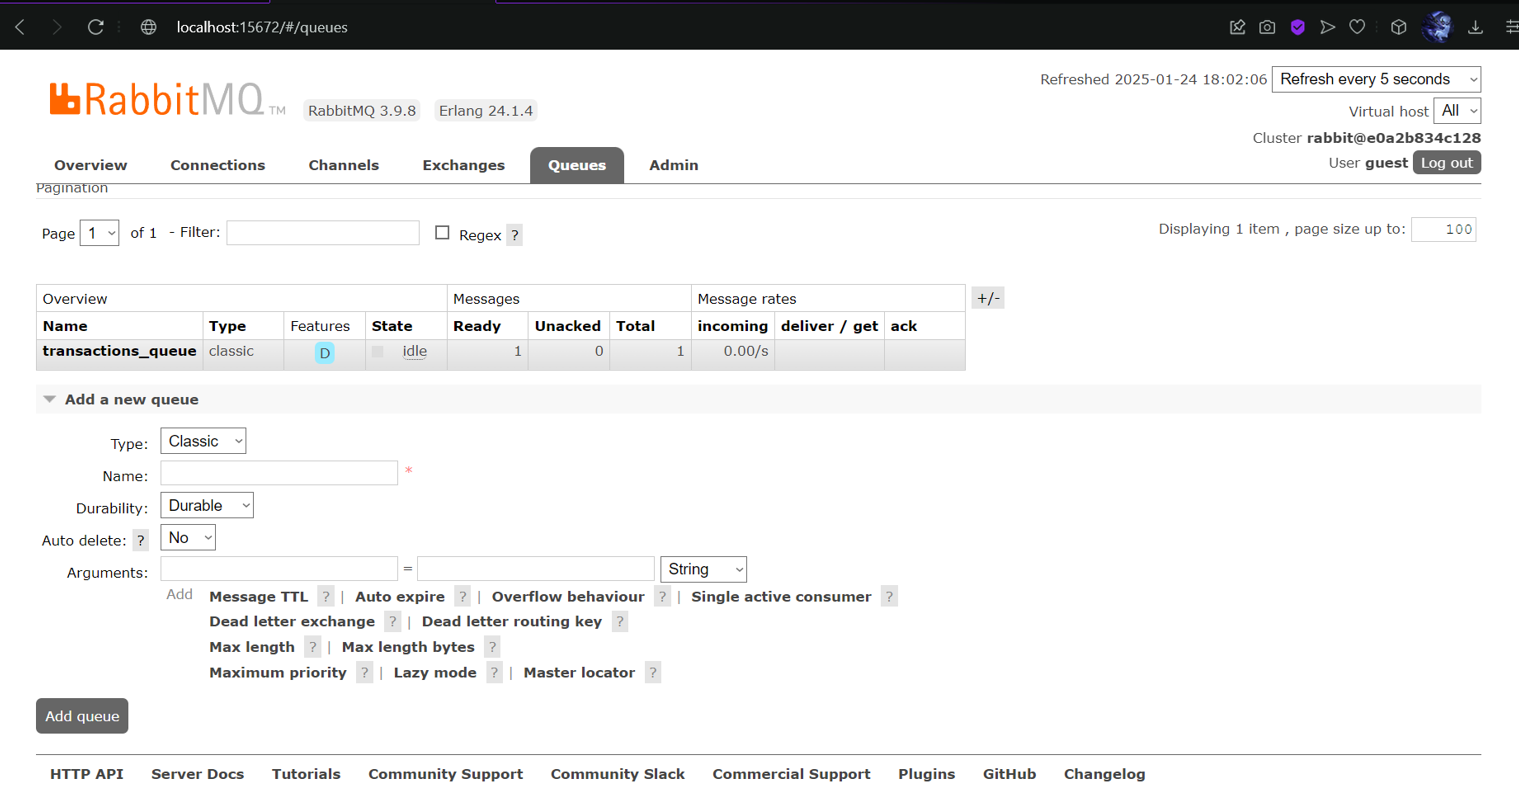
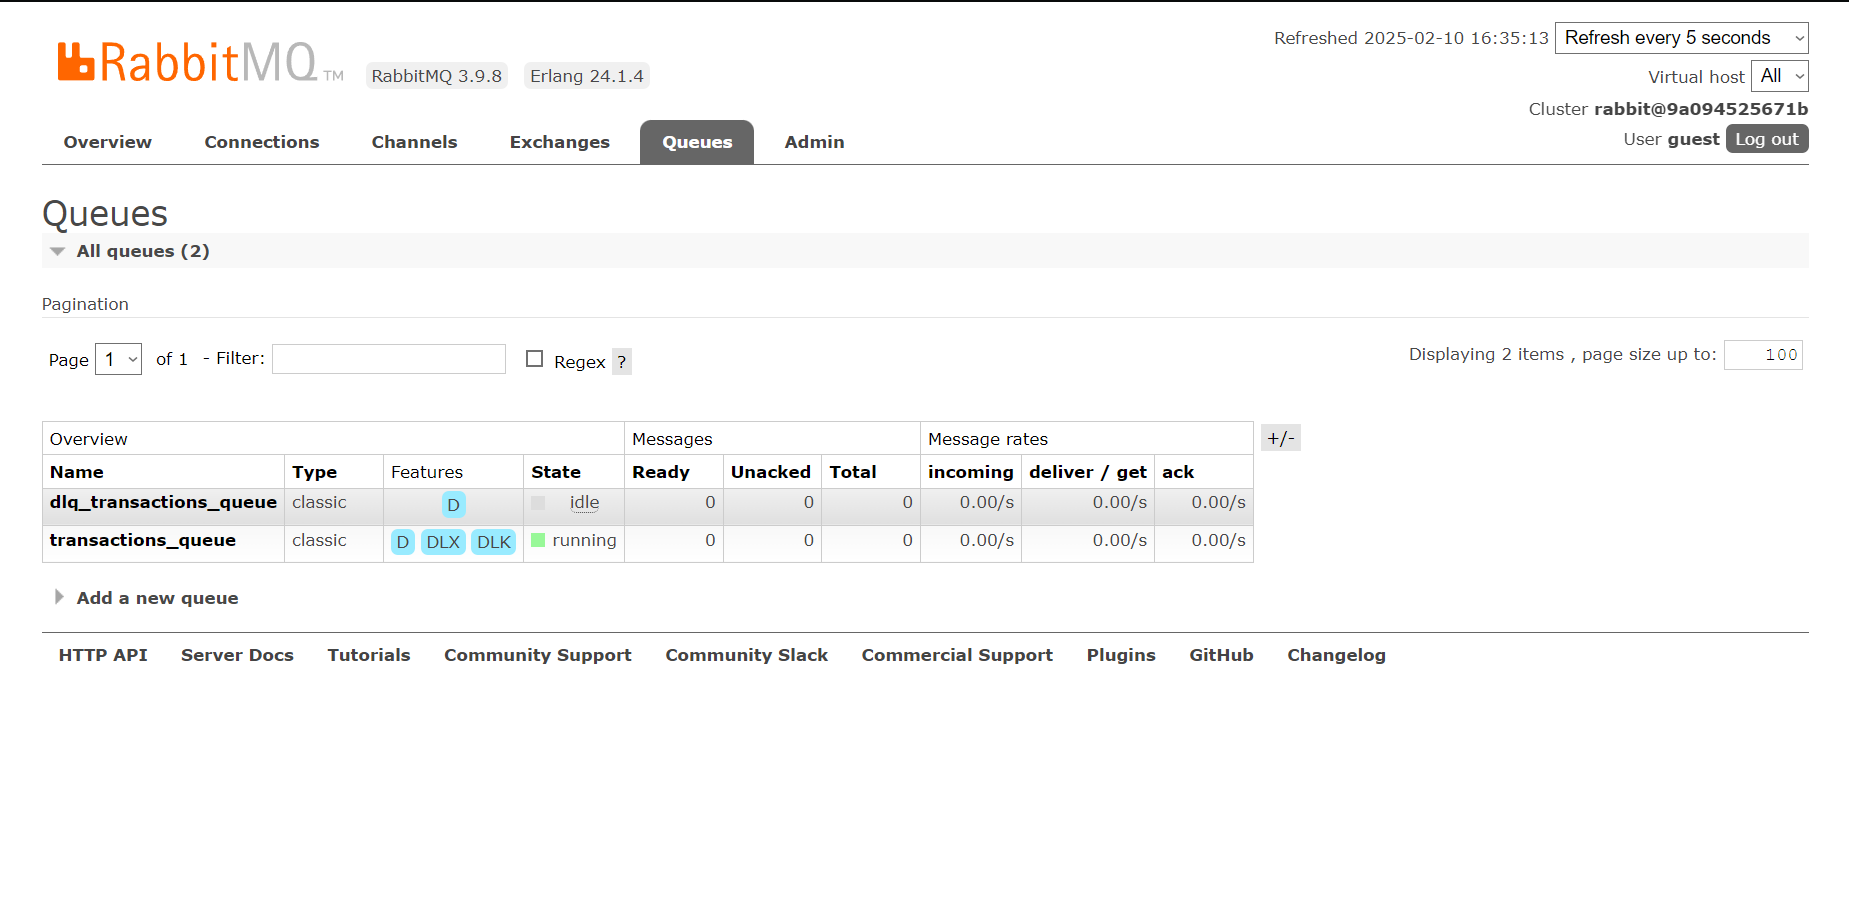
Adicionando DLQ e Logs

diff --git a/src/main/java/com/saproject/centerSA/service/TransactionService.java b/src/main/java/com/saproject/centerSA/service/TransactionService.java
@@ -10,6 +10,7 @@ import org.springframework.beans.factory.annotation.Autowired;
 import org.springframework.stereotype.Service;
 
 import java.time.LocalDateTime;
+import java.util.UUID;
 
 @Service
 public class TransactionService {
@@ -64,6 +65,7 @@ public class TransactionService {
     }
 
     public void transfer(TransactionDTO transactionDTO) {
-        rabbitMQConsumer.processTransaction(transactionDTO);
+        String transactionId = UUID.randomUUID().toString();
+        rabbitMQConsumer.processTransaction(transactionId, transactionDTO);
     }
 }

diff --git a/src/main/java/com/saproject/centerSA/consumer/RabbitMQConsumer.java b/src/main/java/com/saproject/centerSA/consumer/RabbitMQConsumer.java
@@ -56,7 +56,7 @@ public class RabbitMQConsumer {
         }
     }
 
-    private void processTransaction(String transactionId, TransactionDTO transactionDTO) {
+    public void processTransaction(String transactionId, TransactionDTO transactionDTO) {
         TransactionRecord transactionRecord = new TransactionRecord(transactionId, "INITIALIZED", transactionDTO);
         transactionRepository.save(transactionRecord);
         logger.info("[TRANSACTION INITIALIZED] ID: {}, Amount: {}", transactionId, transactionDTO.amount());
